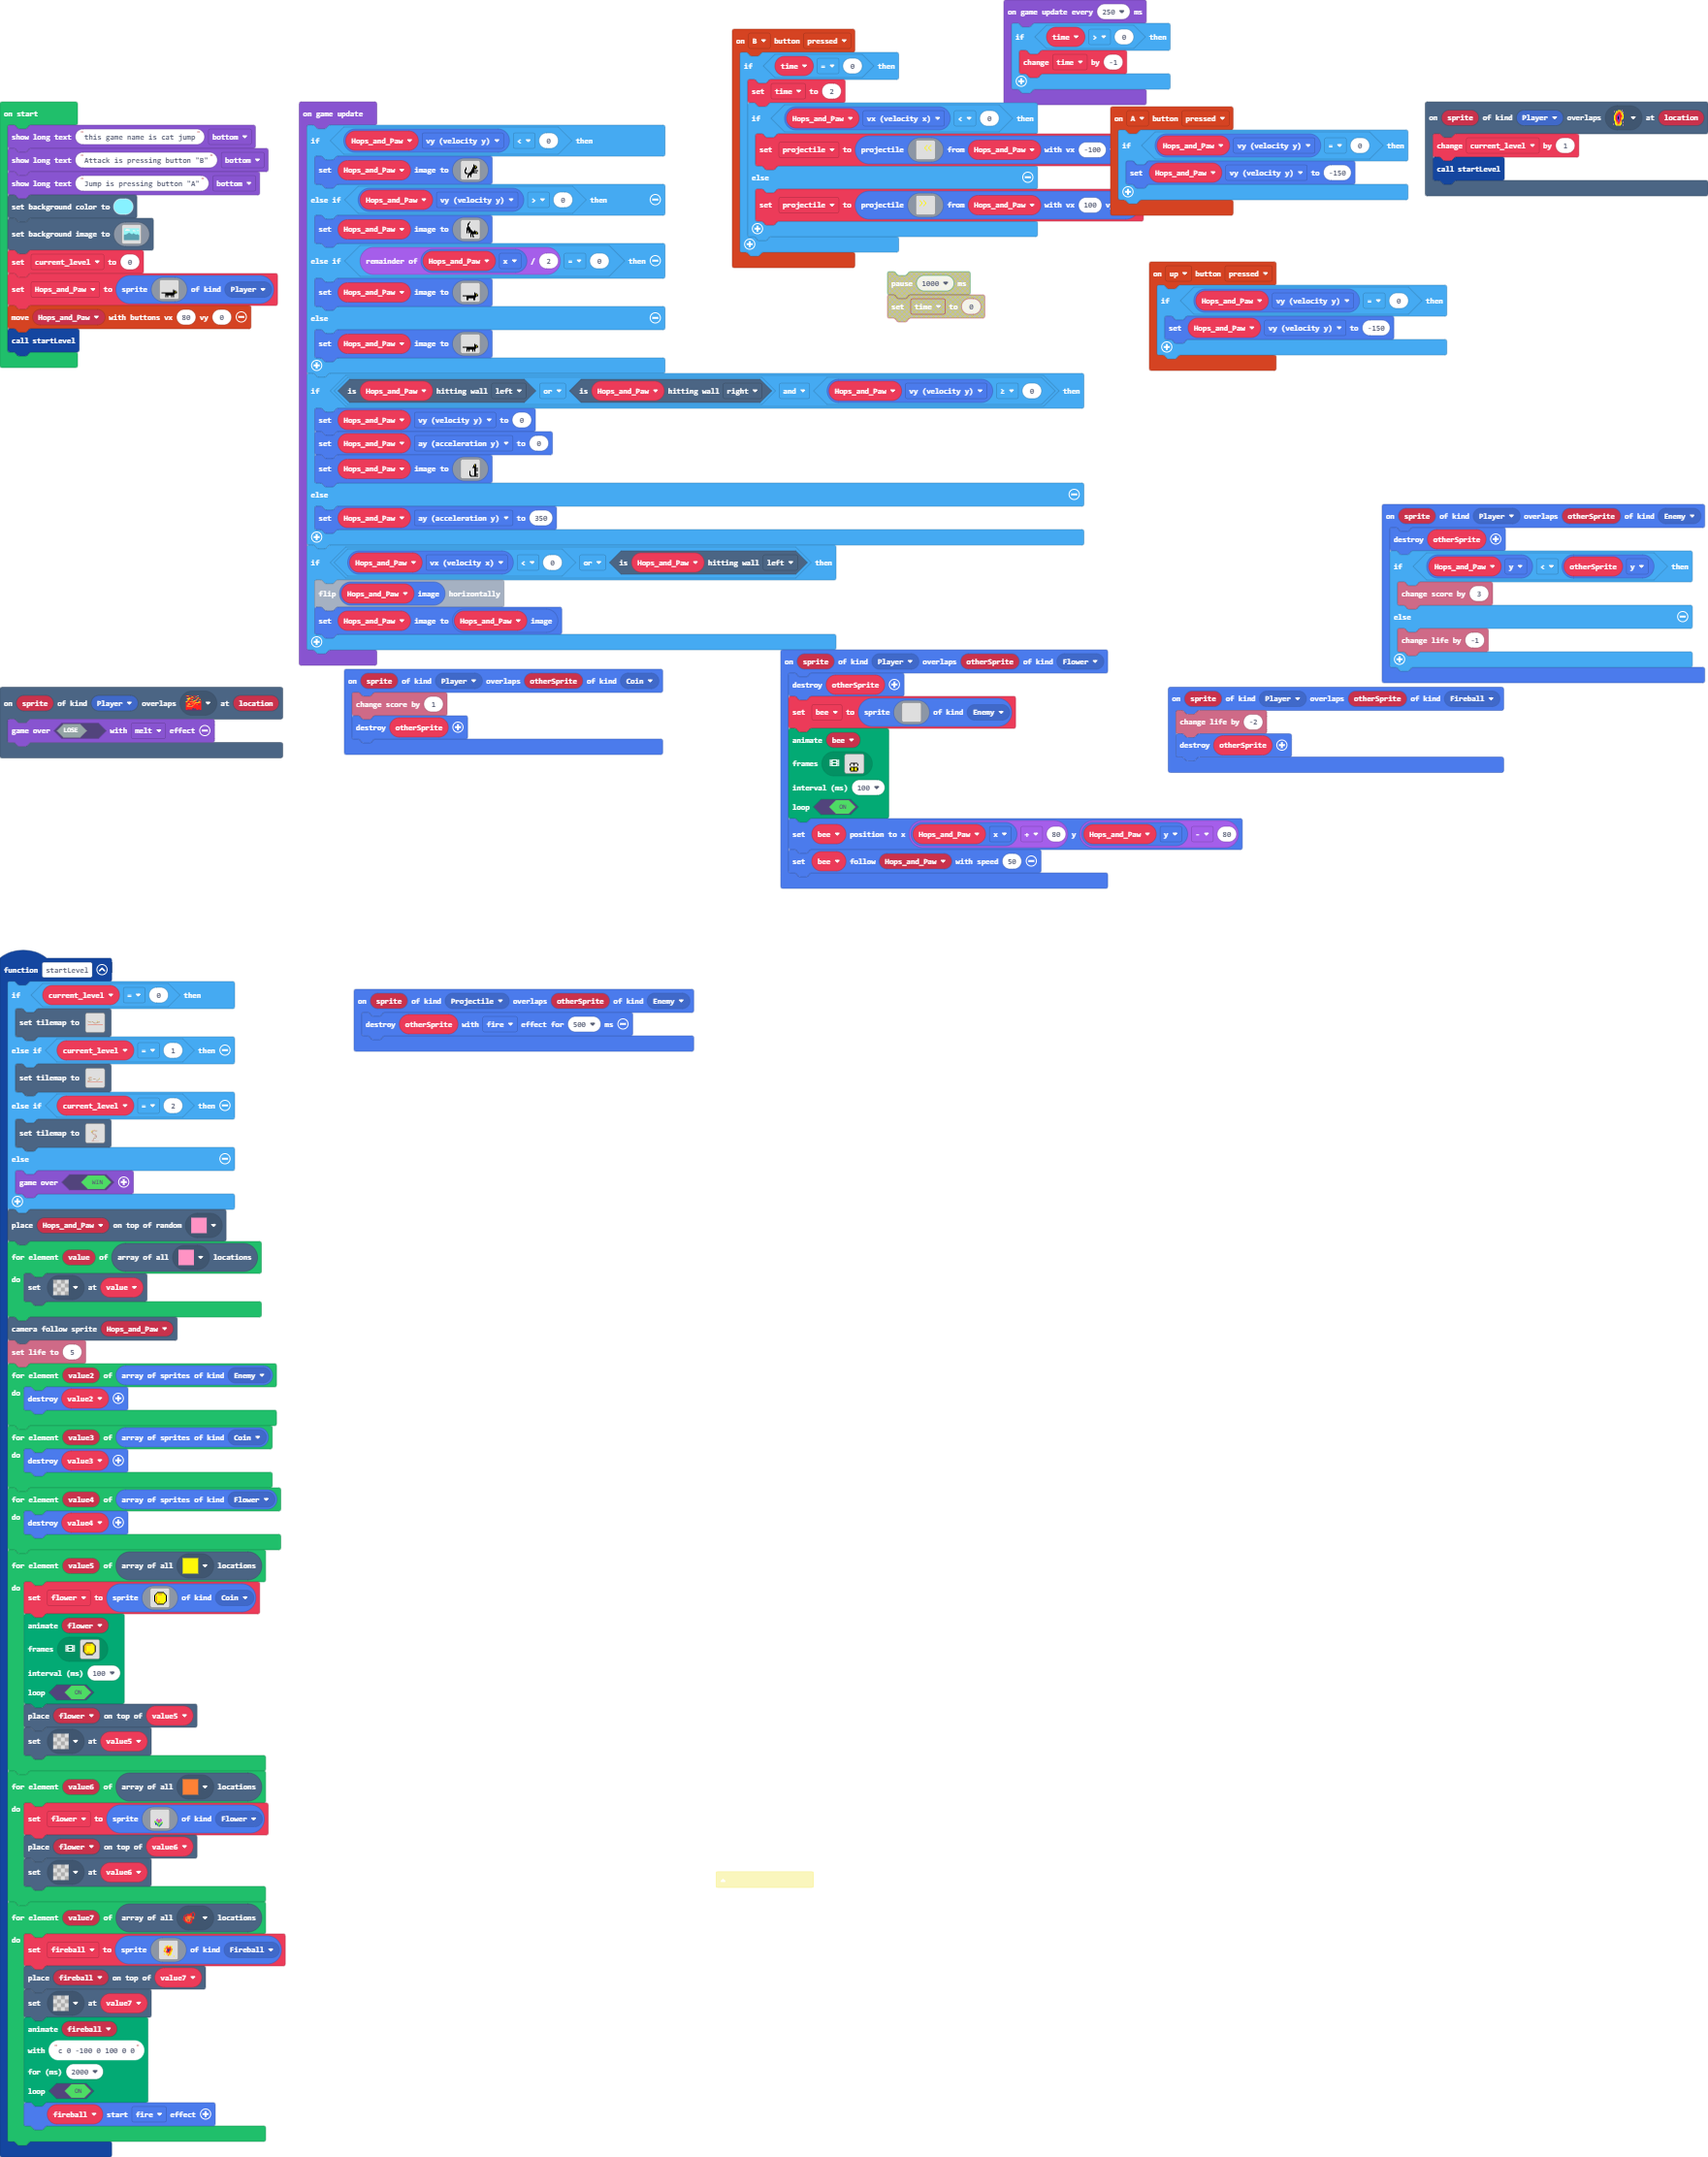
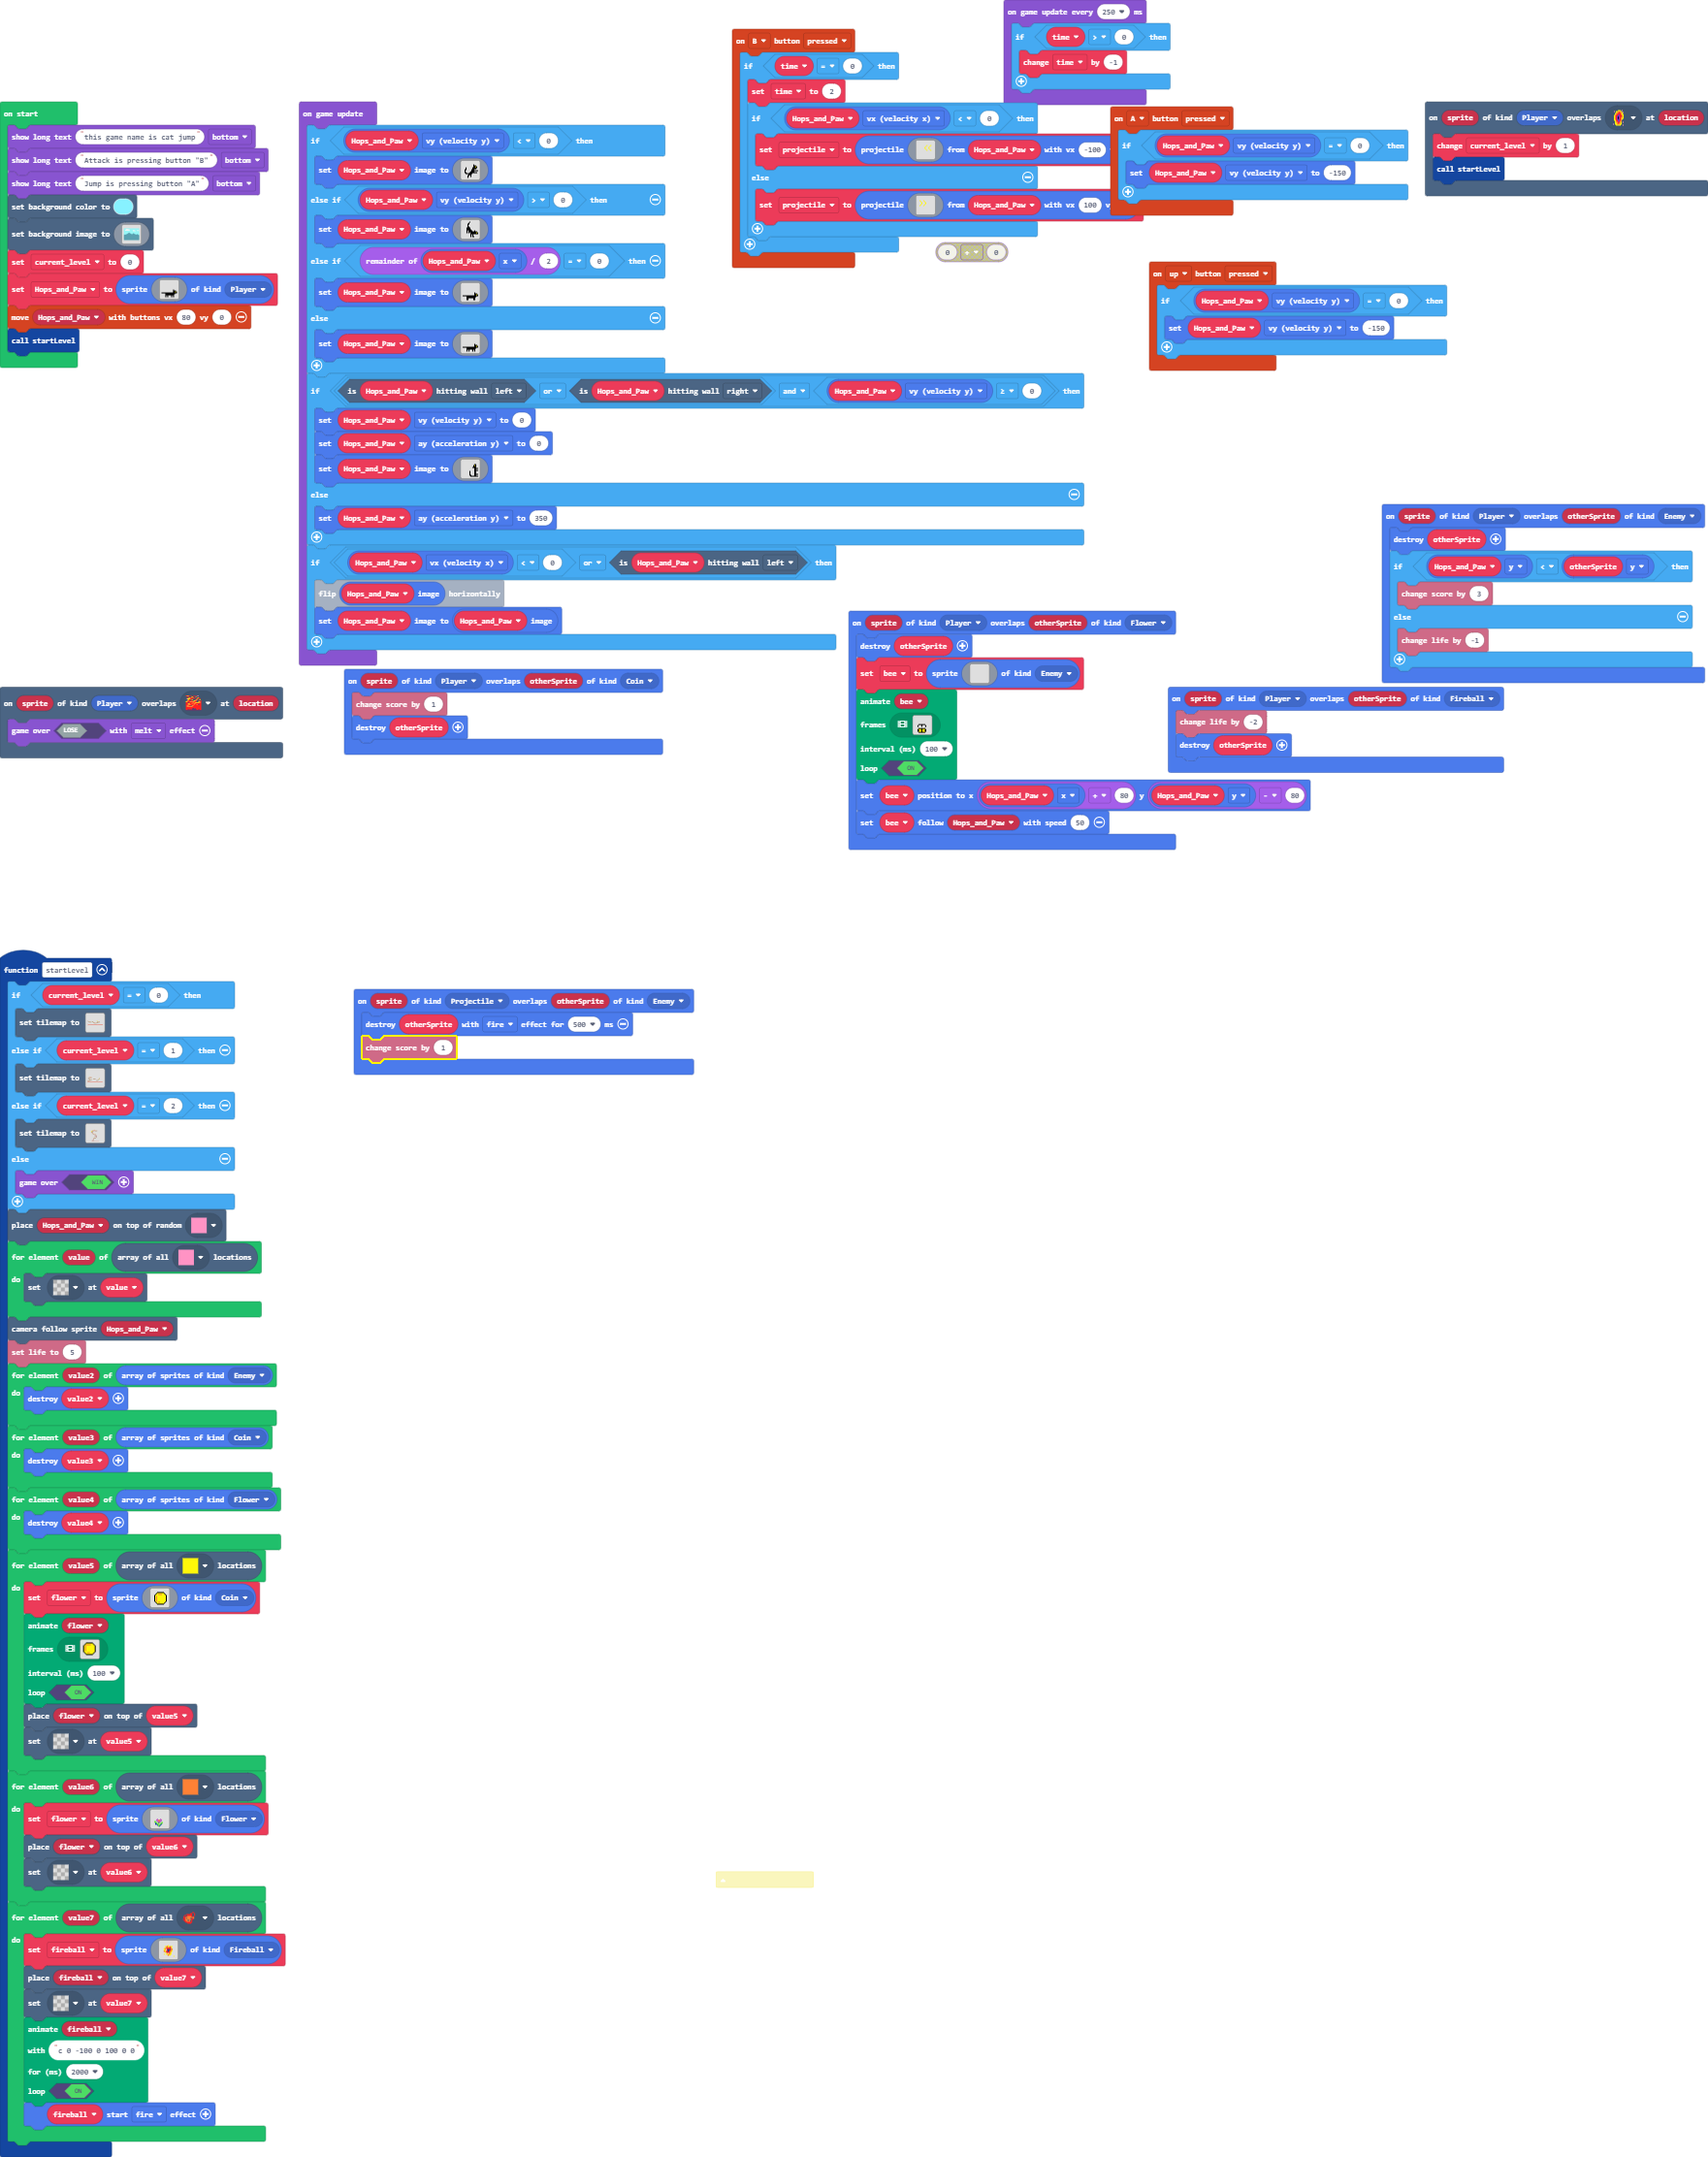
진짜완성본

Changed region(s): [[0.4373, 0.2792, 0.7808, 0.4344], [0.1874, 0.4654, 0.406, 0.4964], [0.4997, 0.0931, 0.5934, 0.1551]]

diff --git a/main.ts b/main.ts
@@ -398,6 +398,7 @@ function startLevel () {
 }
 sprites.onOverlap(SpriteKind.Projectile, SpriteKind.Enemy, function (sprite, otherSprite) {
     otherSprite.destroy(effects.fire, 500)
+    info.changeScoreBy(1)
 })
 sprites.onOverlap(SpriteKind.Player, SpriteKind.Enemy, function (sprite, otherSprite) {
     otherSprite.destroy()
